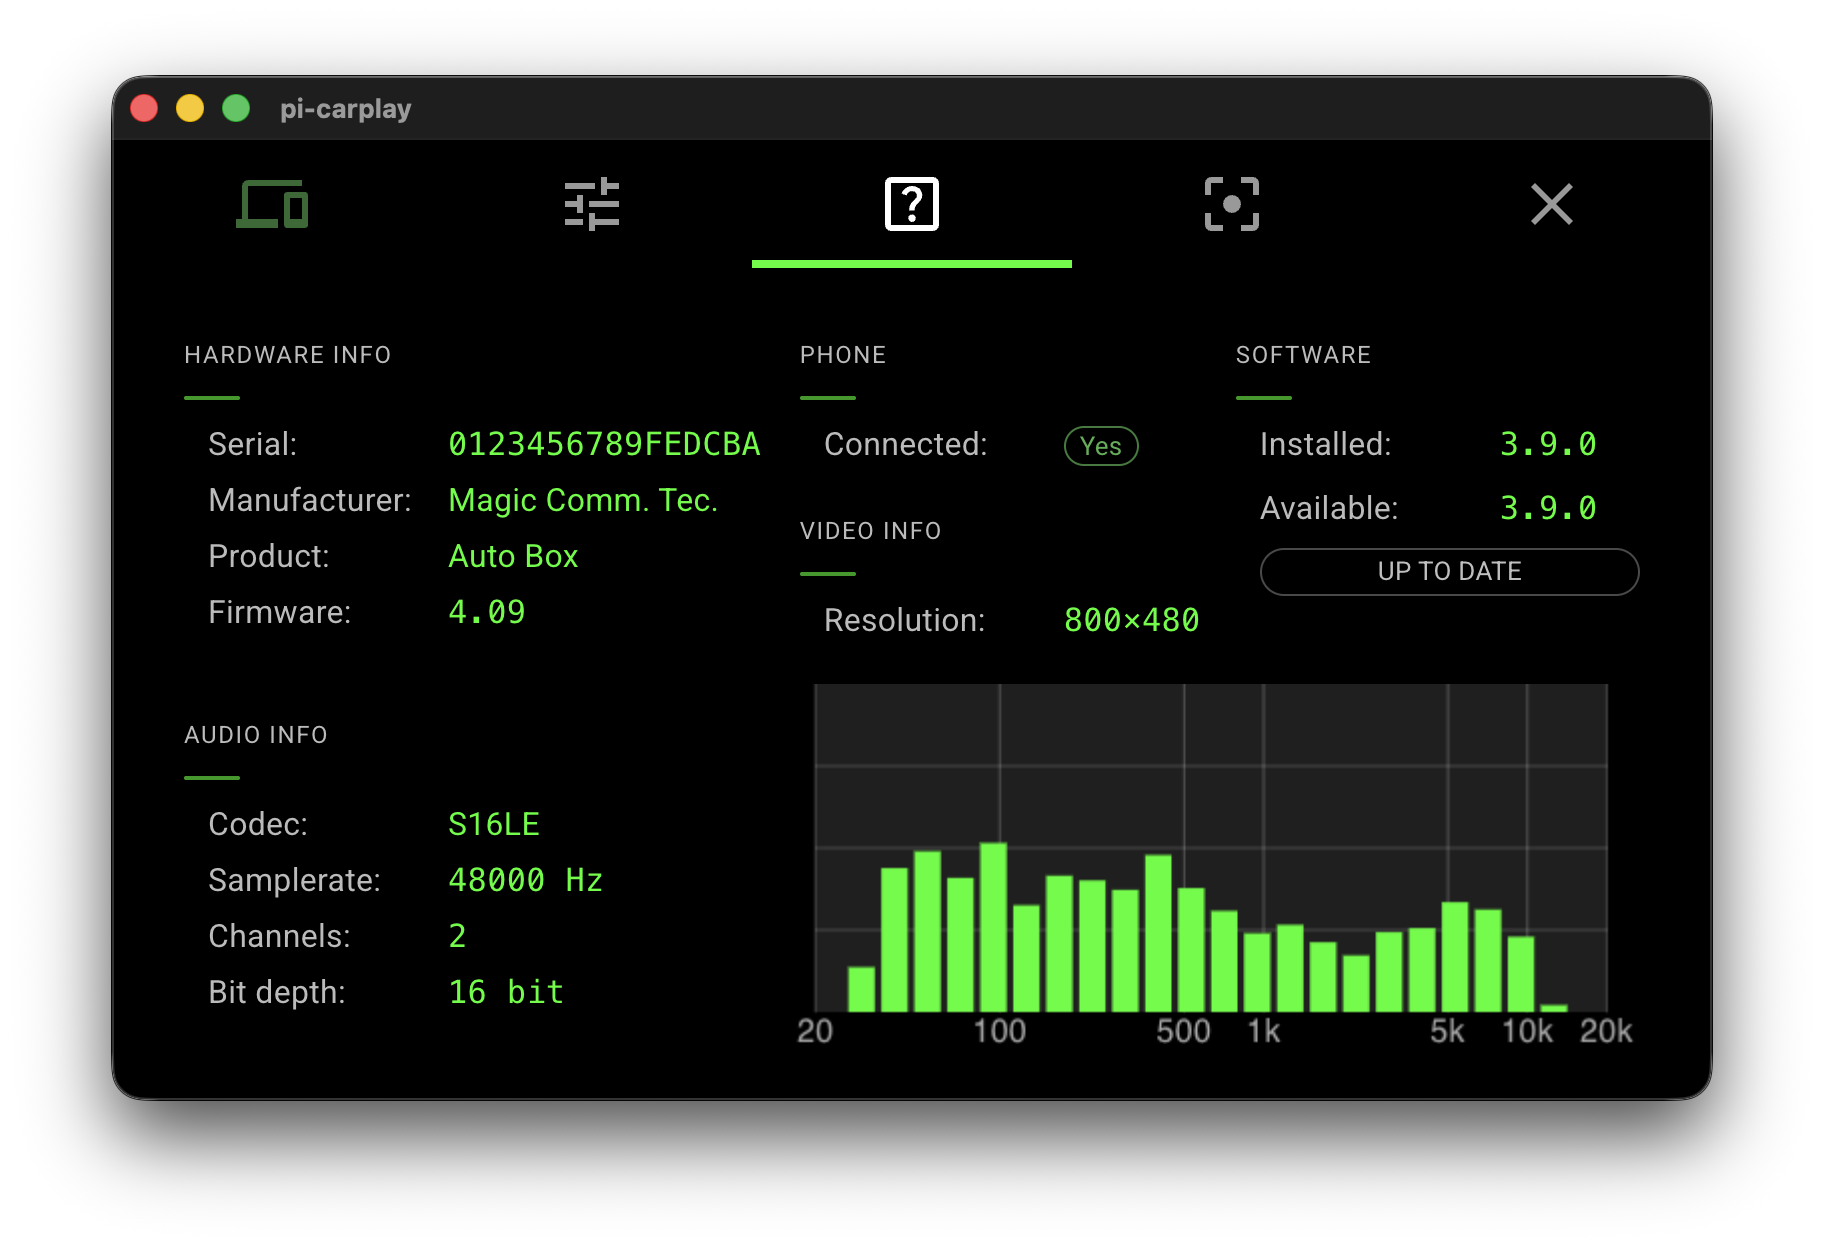
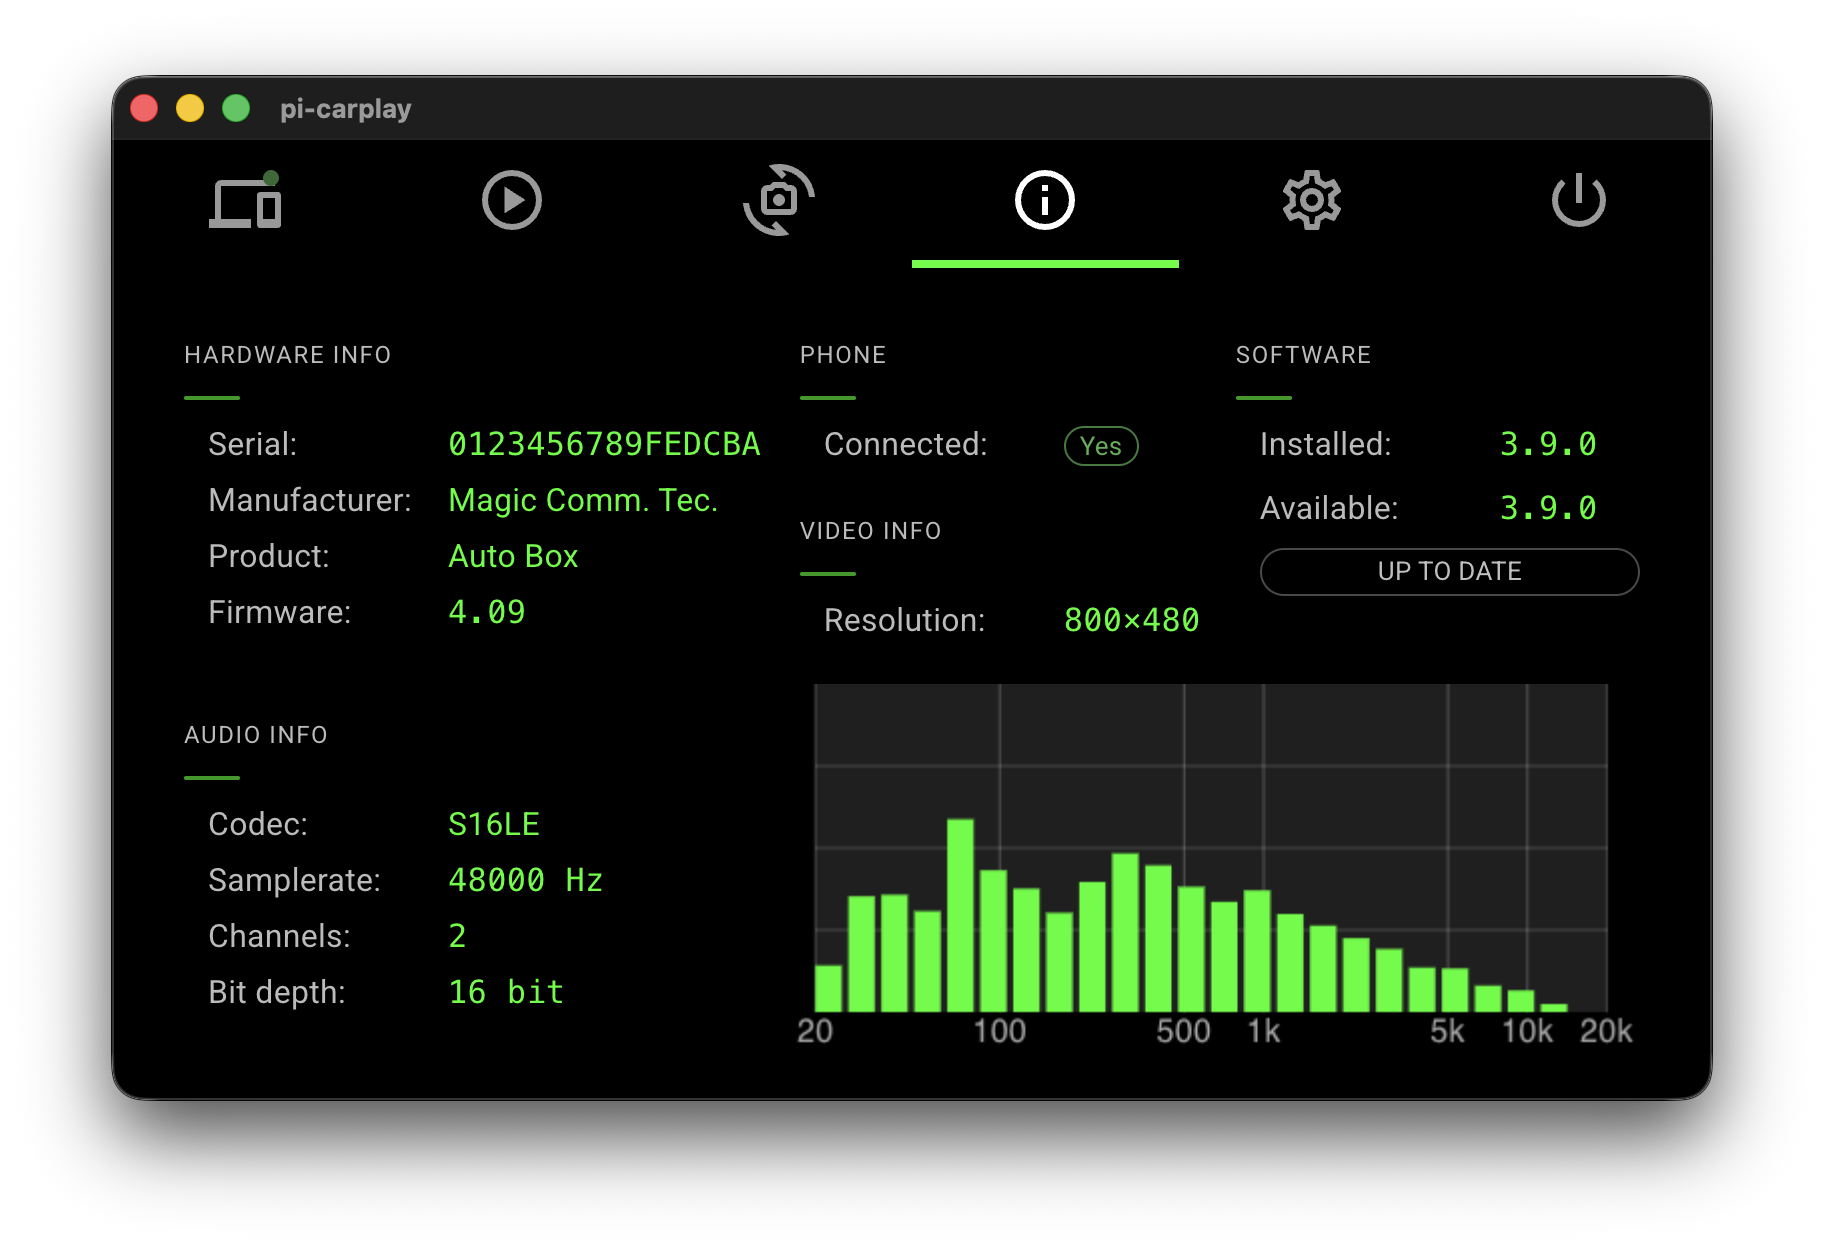
docs(gui): update GUI documentation

diff --git a/README.md b/README.md
@@ -35,20 +35,19 @@ The `setup-pi.sh` script performs the following tasks:
 *Do not run this script on other Linux distributions.*
 
 ## Images
-<p align="center">
-  <img src="documentation/images/carplay.png"
-       alt="CarPlay"
-       width="45%" />
-</p>
 
 <p align="center">
-  <img src="documentation/images/settings.png"
-       alt="Settings"
-       width="45%" />
-  &emsp;&emsp;
-  <img src="documentation/images/info.png"
-       alt="Info"
-       width="45%" />
+  <img src="documentation/images/carplay.png" alt="CarPlay" width="58%" />
+</p>
+<p align="center">
+  <img src="documentation/images/carplay_no_phone.png" alt="No Phone" width="48%" align="top" />
+  &emsp;
+  <img src="documentation/images/info.png" alt="Info" width="48%" align="top" />
+</p>
+<p align="center">
+  <img src="documentation/images/media.png" alt="Media" width="48%" align="top" />
+  &emsp;
+  <img src="documentation/images/settings.png" alt="Settings" width="48%" align="top" />
 </p>
 
 ## Build Environment
@@ -107,6 +106,17 @@ brew install sox
 
 ---
 
+## Android Auto
+
+> **Provisioning not supported.** This app does **not** perform the Android Auto first-time provisioning/pairing flow.  
+> Your phone must already be paired/enrolled **on the dongle**.
+
+**How to provision AA on the dongle:**
+1. Use the dongle with a regular head unit **or** the vendor’s mobile app to add your phone once.
+2. After the dongle knows your phone, connect the dongle to pi-carplay — it will attach without running provisioning again.
+
+---
+
 ## Links
 
 * **Repository & Issue Tracker:** [f-io/pi-carplay](https://github.com/f-io/pi-carplay)
@@ -114,8 +124,7 @@ brew install sox
 
 ## Disclaimer
 
-_Apple and CarPlay are trademarks of Apple Inc. This project is not affiliated with or endorsed by Apple in any way. All trademarks are the property of their respective owners._
-
+_Apple and CarPlay are trademarks of Apple Inc. Android and Android Auto are trademarks of Google LLC. This project is not affiliated with or endorsed by Apple or Google. All product names, logos, and brands are the property of their respective owners._
 
 ## License
 
